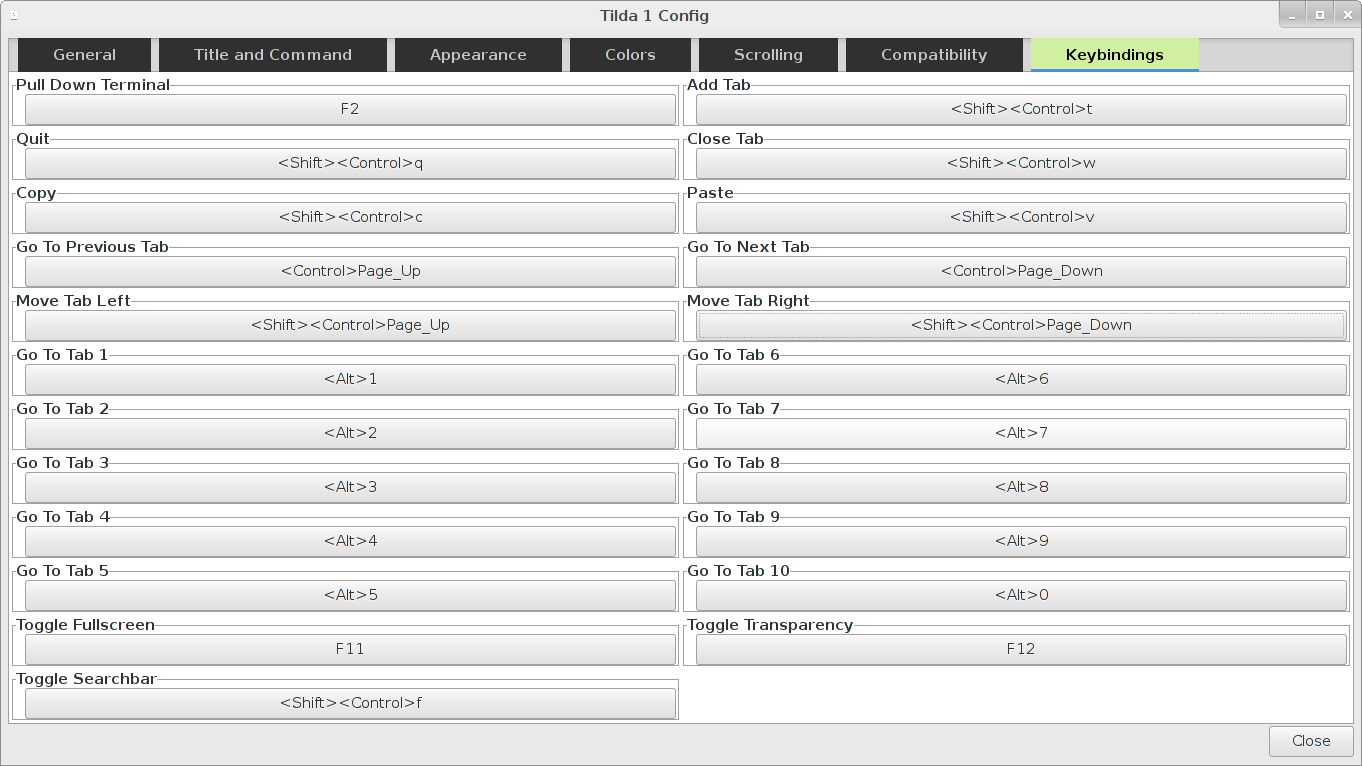
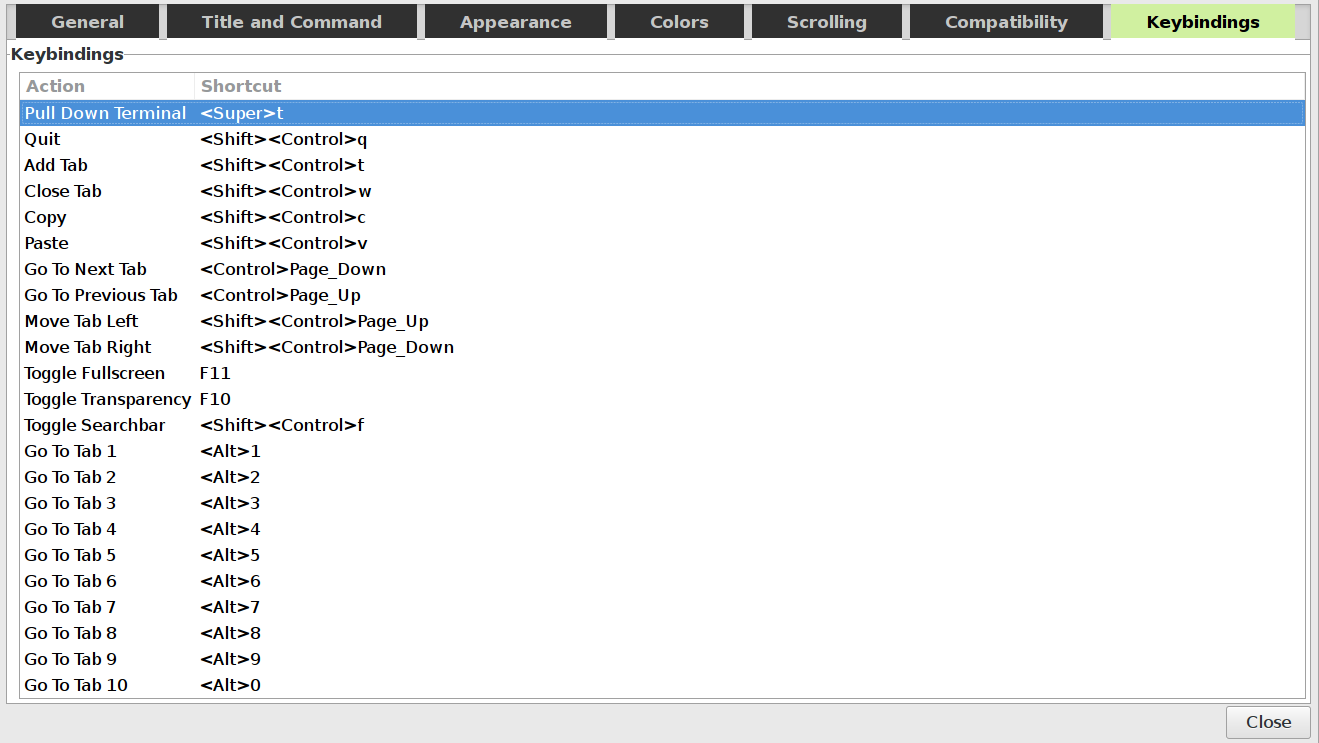
Readme.md: drop non-16:9 images and update readme

diff --git a/README.md b/README.md
@@ -10,22 +10,34 @@ below show some of the options that Tilda provides.
 ## Tilda Terminal
 ![Tilda window with search bar](images/tilda_terminal_with_search_bar.png)
 
-Starting with version 1.3 Tilda will also come with a search bar. Currently we support searching forwards and backwards
+Starting with version 1.3 Tilda comes with a search bar. Currently we support searching forwards and backwards
 as well as options to search case sensitive and to use regular expressions. The search bar can be activated from
 the context menu or with a configurable hotkey that defaults to `<Ctrl><Shift>F`
 ## General options
-![General](images/tilda_general.png)
+![General](images/tilda_general-16-9.png)
+
+## Title and Command
+![Title And Command](images/tilda_title_and_command-16-9.png)
+
 ## Appearance options
-![Appearance](images/tilda_appearance.png)
+![Appearance](images/tilda_appearance-16-9.png)
+
+## Colors
+![Colors](images/tilda_colors-16-9.png)
+
 ## Keybindings options
-![Keybindings](images/tilda_keybindings.png)
+
+Starting with version 1.4 Tilda's keybindings page switches to
+a new list based layout that is easier to use.
+
+![Keybindings](images/tilda_keybindings-16-9.png)
 
 ## Supported Platforms
 Tilda currently works only on Xorg-based desktops. Previously that
 meant that virtually all Linux distributions and some BSD's would be supported.
 Recently however, some Linux distributions
 (such as Ubuntu 17.10) have started to use Wayland as their
-default display server. Tilda currently does not support Wayland will not
+default display server. Tilda currently does not support Wayland and will not
 work on such desktops. As a result it will fail to start.
 Patches that introduce wayland support for tilda are very welcome. Please
 look into the issue section or write me a mail if you would like to contribute
@@ -70,7 +82,7 @@ little trouble as possible. Some example keybindings follow:
 | Keybinding String | Notes                                                             |
 |-------------------|-------------------------------------------------------------------|
 | `grave`           | This will use the tilde key. Many people want this.               |
-| `~`               | This is the same as <Shift>grave                                  |
+| `~`               | This is the same as `<Shift>grave`                                |
 | `space`           | This will use the spacebar to show / hide Tilda. NOT RECOMMENDED! |
 | `<Shift><Ctrl>A`  | Press Shift, Control, and the "a" key at the same time            |
 | `<Shift>space`    | Press Shift and the spacebar at the same time                     |
@@ -80,7 +92,7 @@ That should cover most of the cases. If you want to use something else, it
 probably follows the pattern, so give it a try. Alternatively, you can use the
 configuration wizard, and press the "Pull Down Terminal" button on the
 "Keybindings" tab, then type the combination you want to use. Hopefully, Tilda
-will be able to grab it for you. The `<TAB>` key cannot be grabbed, so at the moment
+will be able to grab it for you. The `<Tab>` key cannot be grabbed, so at the moment
 combinations such as `<Ctrl><Tab>` are not possible.
 
 # Files that Tilda creates
